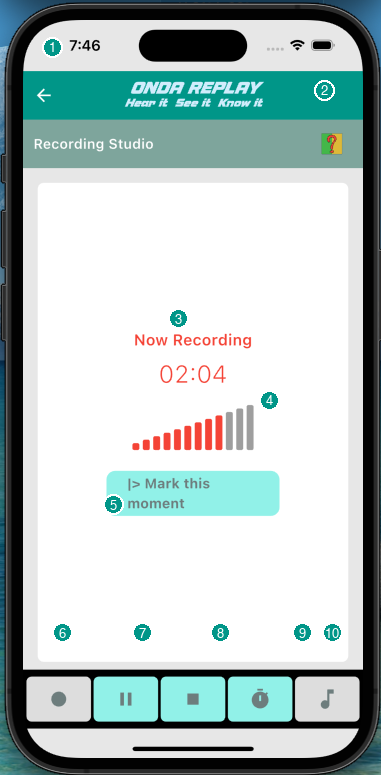
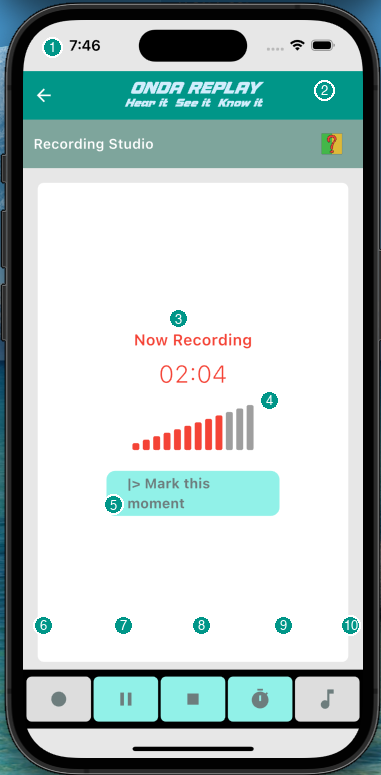
Add finished callout-placement algorithm as a reusable script
Row/column detection with uniform perpendicular shift (preserves
natural spacing within a group), falling back to ring search
(min/max distance from control + edge margin + minimum dot-to-dot
spacing) for anything not in a detected group. Developed live with
David on the Recording Studio idle/active screenshots over several
iterations — see project_onda_doc_hardware_instructions.md (memory)
for the full history and the accepted corner-case limitation.

Regenerated both Recording Studio images with the finished script,
replacing the ad-hoc versions from earlier iterations.

diff --git a/tools/place_callouts.py b/tools/place_callouts.py
@@ -1,0 +1,160 @@
+#!/usr/bin/env python3
+"""
+place_callouts.py — Numbered callout placement for ONDA Doc help screenshots.
+
+Given a screenshot and a set of control center-points (as percentages of
+image width/height), draws numbered circles that point at each control
+without covering it, without crowding each other, and without leaving
+the image canvas.
+
+Developed live with David, 2026-08-18, by iterating on a real screenshot
+and a debug visualization until the placement looked right. See
+project_onda_doc_hardware_instructions.md (memory) for the full history.
+
+THE ALGORITHM
+--------------
+Two rules, applied in order:
+
+1. ROW / COLUMN DETECTION (handles evenly-spaced groups, e.g. a toolbar)
+   Controls whose Y (or X) coordinates fall within ROW_TOLERANCE percent
+   of each other are treated as one aligned group. The whole group is
+   shifted by a single uniform offset, perpendicular to its own axis
+   (a horizontal row shifts straight up or down; a vertical column
+   shifts straight left or right). Because every member moves by the
+   *same* amount, the group's own natural spacing is preserved exactly
+   — no per-dot search needed, and no risk of two dots in the same row
+   crowding each other.
+
+2. RING SEARCH (handles everything else)
+   For any control not part of a detected group, try placing its dot at
+   points on rings between MIN_DIST and MAX_DIST pixels from the
+   control's center, in a fixed priority order of directions (diagonals
+   first, then cardinals). The first candidate that satisfies both
+   constraints below is used:
+     - stays at least EDGE_MARGIN pixels inside the image canvas
+     - stays at least MIN_DOT_SPACING pixels from every already-placed dot
+
+KNOWN EDGE CASE — accepted, not solved
+----------------------------------------
+A control very close to a corner (e.g. within MIN_DIST of two canvas
+edges at once) can have no ring that both clears MIN_DIST from the
+control AND stays fully inside the canvas. In practice the *chosen dot*
+still lands correctly (the edge-margin check on the dot itself always
+holds), but there's no guarantee of a "clean" ring for extreme corner
+cases. David's call: this is fine — a human reviewer flags it via
+`reviewer_note` on the Presentations record and the dot gets manually
+adjusted, rather than adding more special-case logic for a rare corner.
+"""
+
+import math
+from PIL import Image, ImageDraw, ImageFont
+
+RADIUS = 10             # fixed pixel radius of the callout circle
+MIN_DIST = 18           # closest a dot's center may sit to its control's center
+MAX_DIST = 34           # farthest it may drift and still read as "pointing at this"
+EDGE_MARGIN = 18         # closest a dot may sit to the image canvas boundary
+MIN_DOT_SPACING = 26     # minimum center-to-center distance between any two dots
+ROW_TOLERANCE = 3        # percent — controls within this Y (or X) range count as one group
+
+DIST_OPTIONS = [(MIN_DIST + MAX_DIST) / 2, MIN_DIST, MAX_DIST]
+DIRS = [
+    (0.707, -0.707), (0.707, 0.707), (-0.707, -0.707), (-0.707, 0.707),
+    (1, 0), (-1, 0), (0, -1), (0, 1),
+]
+
+
+def _font(size=13):
+    try:
+        return ImageFont.truetype("/System/Library/Fonts/Helvetica.ttc", size)
+    except Exception:
+        return ImageFont.load_default()
+
+
+def _detect_rows(order, centers_pct):
+    """Group controls whose Y-coordinates cluster together (3+ members)."""
+    ys = {l: centers_pct[l][1] for l in order}
+    xs = {l: centers_pct[l][0] for l in order}
+    grouped = set()
+    rows = []
+    for l in order:
+        if l in grouped:
+            continue
+        row = [m for m in order if m not in grouped and abs(ys[m] - ys[l]) <= ROW_TOLERANCE]
+        if len(row) >= 3:
+            rows.append(sorted(row, key=lambda m: xs[m]))
+            grouped.update(row)
+    return rows
+
+
+def place_callouts(image_path, centers_pct, order, output_path):
+    """
+    image_path:   source screenshot
+    centers_pct:  {label: (x_percent, y_percent)} — one center point per control
+    order:        list of labels, drawing/priority order (also numbering order)
+    output_path:  where to save the annotated PNG
+    """
+    im = Image.open(image_path).convert("RGBA")
+    W, H = im.size
+    overlay = Image.new("RGBA", im.size, (0, 0, 0, 0))
+    draw = ImageDraw.Draw(overlay)
+    font = _font()
+
+    placed = []  # (label, x, y)
+
+    # 1) Row/column groups first — uniform perpendicular shift
+    rows = _detect_rows(order, centers_pct)
+    for row in rows:
+        ctr_ys = [centers_pct[m][1] / 100 * H for m in row]
+        shift = None
+        for dy in (-((MIN_DIST + MAX_DIST) / 2), (MIN_DIST + MAX_DIST) / 2):
+            if all((RADIUS + EDGE_MARGIN) <= (cy + dy) <= H - (RADIUS + EDGE_MARGIN) for cy in ctr_ys):
+                shift = dy
+                break
+        if shift is None:
+            shift = -((MIN_DIST + MAX_DIST) / 2)
+        for m in row:
+            cx = centers_pct[m][0] / 100 * W
+            cy = centers_pct[m][1] / 100 * H + shift
+            placed.append((m, cx, cy))
+
+    # 2) Everything else — ring search against edge margin + dot spacing
+    for label in order:
+        if any(m == label for m, _, _ in placed):
+            continue
+        px, py = centers_pct[label]
+        ctr_x, ctr_y = px / 100 * W, py / 100 * H
+        chosen = None
+        for dist in DIST_OPTIONS:
+            for dx, dy in DIRS:
+                cx, cy = ctr_x + dx * dist, ctr_y + dy * dist
+                if not ((RADIUS + EDGE_MARGIN) <= cx <= W - (RADIUS + EDGE_MARGIN)
+                        and (RADIUS + EDGE_MARGIN) <= cy <= H - (RADIUS + EDGE_MARGIN)):
+                    continue
+                if any(math.hypot(cx - px2, cy - py2) < MIN_DOT_SPACING for _, px2, py2 in placed):
+                    continue
+                chosen = (cx, cy)
+                break
+            if chosen:
+                break
+        cx, cy = chosen if chosen else (ctr_x, ctr_y)
+        placed.append((label, cx, cy))
+
+    placed_dict = {m: (x, y) for m, x, y in placed}
+    for label in order:
+        cx, cy = placed_dict[label]
+        draw.ellipse([cx - RADIUS, cy - RADIUS, cx + RADIUS, cy + RADIUS],
+                     fill=(0, 150, 136, 255), outline=(255, 255, 255, 255), width=2)
+        bbox = draw.textbbox((0, 0), label, font=font)
+        tw, th = bbox[2] - bbox[0], bbox[3] - bbox[1]
+        draw.text((cx - tw / 2, cy - th / 2 - bbox[1]), label, fill=(255, 255, 255, 255), font=font)
+
+    out = Image.alpha_composite(im, overlay).convert("RGB")
+    out.save(output_path)
+    return output_path
+
+
+if __name__ == "__main__":
+    import sys
+    print(__doc__)
+    print("Import place_callouts() and call it with your own image path, "
+          "centers_pct dict, and order list — see the docstring above.")
